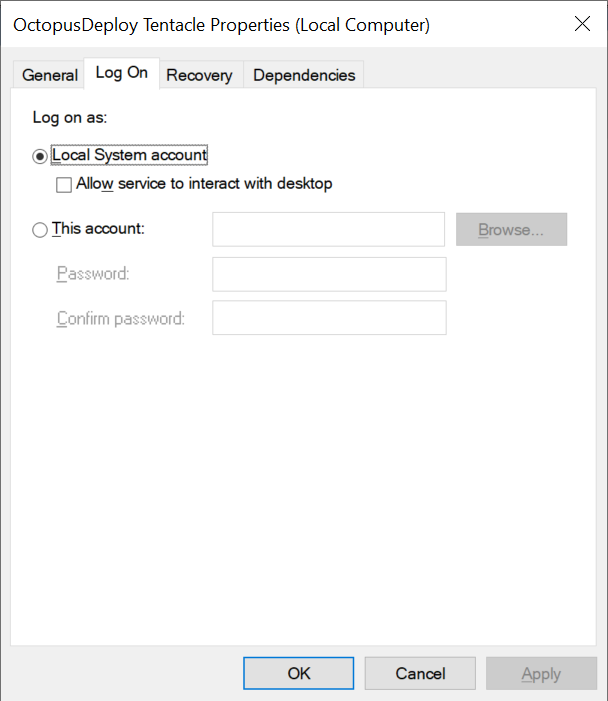
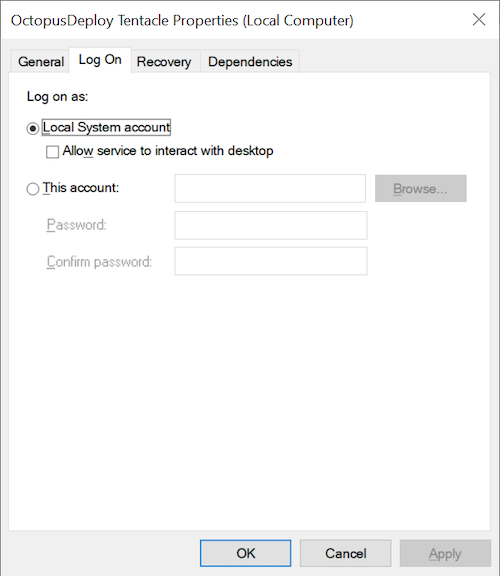
image size

diff --git a/blog/2020-03/ui-testing-considerations/index.md b/blog/2020-03/ui-testing-considerations/index.md
@@ -22,7 +22,7 @@ Before we dive into using Windows for interactive testing, it is worth understan
 
 If you have ever configured a Windows service, you may have noticed the `Allow service to interact with the desktop` option:
 
-![](interactive-service.png "width=300")
+![](interactive-service.png "width=250")
 
 Back with Windows XP, this option allowed a Windows service to draw on the desktop of the first logged in user, who was assigned session 0. This wasn’t ideal from a security point of view, leading to exploits like the [Shatter attack](https://en.wikipedia.org/wiki/Shatter_attack).
 
